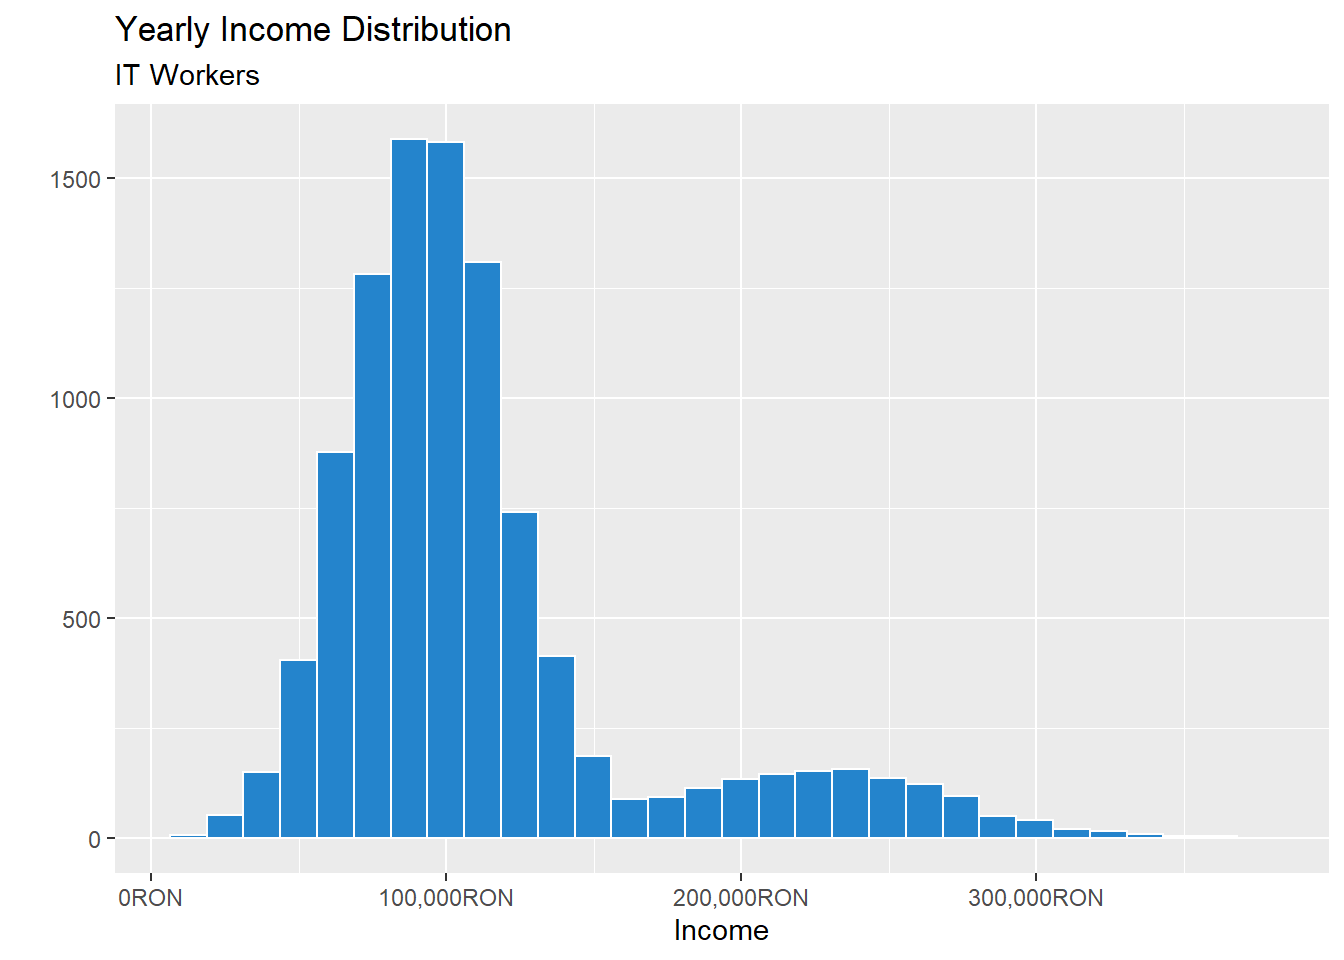
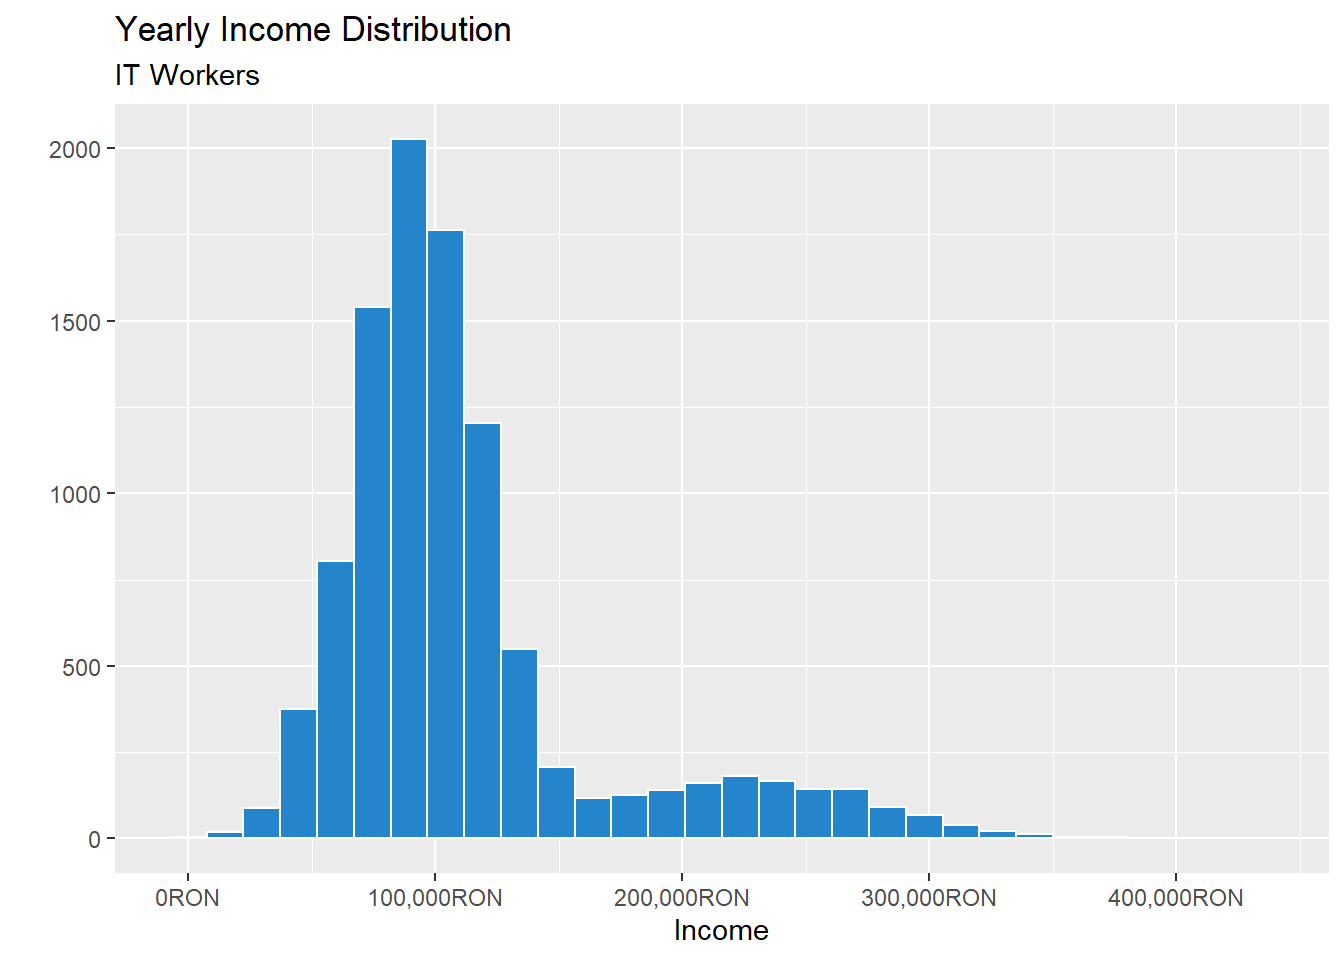
IT Crowd

diff --git a/content/post/2021-03-18-decision-making-with-uncertainty/index.en.html b/content/post/2021-03-18-decision-making-with-uncertainty/index.en.html
@@ -174,7 +174,7 @@ dr_sal_final &lt;- dr_sal_final * 468
 
 # And finally, the conversion to €
 dr_sal_final &lt;- dr_sal_final / 5  </code></pre>
-<p>I will take a look at the numbers in the analysis part, this si just the preparation of the data. Now, let’s see if we can estimate how much does an IT professional earn.</p>
+<p>I will take a look at the numbers in the analysis part, this is just the preparation of the data. Now, let’s see if we can estimate how much does an IT professional earn.</p>
 </div>
 <div id="part-of-the-it-crowd" class="section level2">
 <h2>Part of the IT Crowd</h2>
@@ -186,50 +186,47 @@ dr_sal_final &lt;- dr_sal_final / 5  </code></pre>
 <li>What is the variation from the average</li>
 <li>What is the distribution of those salaries</li>
 </ol>
-<p>If I am to look at the average income across all levels and the fact that managers and directors earn significantly more than everyone else, we can approximate that around 15% of the IT professionals are managers and directors. Otherwise said, I can rephrase this as the following statement: Assuming that I am at an average skill level for the IT industry, by seer luck I will end up in a management position 15% of the time, if I were to live 10,000 lives.</p>
-<p>###—————————————————</p>
-<p>The first table gives us most of the information we need regarding the salary distribution in Romania. There we can see that most people, over 58% earn more than 92,809 RON. This is not exactly the median of the distribution however it is close enough so we will use this to approximate the shape of the distribution. The median is the value exactly in the middle of the distribution.</p>
-<p>Once we have this, we will use it as an average value for a normal distribution that will contain most of the values in our population. This will be 85% percent of our lives, we will not be managers, therefore we will have salaries accordingly. In the rest of 15% of our 10,000 lives, we will be managers or directors so our salary will be accordingly.</p>
-<pre class="r"><code>it_sal_low &lt;- rnorm(8500, it_sal_med_low, 25000)
+<p>The first part as for the previous section is quite easy, 11,200 RON.</p>
+<p>If I am to look at the average income across all levels and the fact that managers and directors earn significantly more than everyone else, we can approximate that around 15% of the IT professionals are managers and directors. In short, I can rephrase this as the following statement: Assuming that my skill level for the IT industry is average, by seer luck I will end up in a management position 15% of the time, if I were to live 10,000 lives.</p>
+<pre class="r"><code># Distribution of IT salaries for software engineers
+it_sal_low &lt;- rnorm(8500, it_sal_med_low, 25000)
+# Distribution of IT salaries for IT managers and Directors
 it_sal_high &lt;- rnorm(1500, it_sal_med_high, 50000)
 
+# The sample of my income across all lives will be the two distributions put together
 it_sal_dist &lt;- c(it_sal_low, it_sal_high)
 
-# We want to make sure the mean of our distribution if not far off from the actual distribution
+# The average of my salary distribution should be similar to that on the website
 mean(it_sal_dist)</code></pre>
-<pre><code>#&gt; [1] 112124.1</code></pre>
-<p>We can see the average salary of our distribution is quite close to the one from the website, so we can say that our distribution closely resembles the sampled population from the site. Salary distribution looks like below:</p>
+<pre><code>#&gt; [1] 112611</code></pre>
+<p>From what I can see the distribution I have created has the same average salary as the population on the website so I can safely assume that the distribution I have created more or less resembles the population I want to recreate. The distribution looks like this:</p>
 <pre class="r"><code>it_sal_dist %&gt;% 
   histogram() +
   labs(title = &quot;Yearly Income Distribution&quot;,
        subtitle = &quot;IT Workers&quot;) + 
   scale_x_continuous(labels = label_dollar(prefix = &quot;&quot;, suffix = &quot;RON&quot;))</code></pre>
 <p><img src="{{< blogdown/postref >}}index.en_files/figure-html/it_yearly_salary-1.png" width="100%" /></p>
-<p>Not very normal, is it? There are a few people that have huge salaries compared to the rest of the population. So, if you manage to land yourself a management role in IT you’re all set. If not, let’s see how this translates in EURO and in lifetime earnings.</p>
-<p>The first thing would be to transform everything into net profit.</p>
-<p>At the time of this writing the IT workers were exempt from the income tax so the only two taxes required to be paid are:</p>
+<p>This is not a normal distribution, but that was to be expected, however it is not a power law distribution either. This can become a power law if I take into account if I consider developing an app and make it big.</p>
+<p>It is a bit complicated to get data on what is the success rate of an app. An interesting and comprehensive summary can be found in this <a href="https://venturebeat.com/2017/09/24/your-chances-of-making-a-successful-mobile-app-are-almost-nil/">article</a>. I can see that I will need €25,000 as initial investment and I need to make a full time job out of it and afterwards you need to invest in marketing and spend a lot of time adjusting ASO. For me this would have been a potential career if it would have been possible to spend some weekends creating the app, uploading it to an app store and be done with it.</p>
+<p>From what I’ve seen there is virtually no chance of that and I do not plan on spending all the effort needed for a successful app so I will not include this in the analysis.</p>
+<p>With this in mind, I will assume that the salaries are as shown in the graph above. The mentioned salaries are annual salaries in RON before tax. Now I will just need to adjust them to something more useful.</p>
+<p>First of all, I will need to extract the taxes. At the time of this writing IT professionals are exempt from the income tax, so all I would need to pay would be:</p>
 <ul>
 <li>Social Security: 25%</li>
 <li>Health Insurance: 10%</li>
 </ul>
-<p>Afterwards, we will convert it to Euro.</p>
-<pre class="r"><code>it_sal_dist_net &lt;- it_sal_dist - (it_sal_dist * 0.25) - (it_sal_dist * 0.1)
+<p>Secondly, I need to convert everything into €. As before, we will use the conversion rate from above.</p>
+<pre class="r"><code># Net salary
+it_sal_dist_net &lt;- it_sal_dist - (it_sal_dist * 0.25) - (it_sal_dist * 0.1)
 
-it_sal_dist_net_eur &lt;- it_sal_dist_net * 0.2</code></pre>
-<p>Now we have the yearly salary. So, for how long can someone work in this industry?</p>
-<p>Most people start while studying at university, however most of those positions are either very low paying or are unpaid internships so I will eliminate them. On the other hand, due to this, most people can find work right after finishing their studies. Assuming as we did previously that someone finishes high school at 19, they can study for 3-4 years, depends if you are studying in the Bologna system or not, you can start work at 22. However, since there are a lot of people working in IT who do not have specialisations in IT, I will consider that the most typical person will start at 25. This will account for those people as most people not from IT might start later.</p>
+# The salary converted to €
+it_sal_dist_net_eur &lt;- it_sal_dist_net / 5</code></pre>
+<p>Now all is left is to see for how long I would expect to work in the industry?</p>
+<p>Most people working in the IT industry start working while studying at university. I will not count these jobs because most of them are really low paying or they are unpaid internships. This situation allows people to get a proper job right after finishing university or even a bit before graduation. I will keep my assumption that I will finish high school at 19 so I have a starting point.</p>
+<p>If you are studying software engineering, in Romania, you can either study for three or four years, depending if the university follows the Bologna system or not. This does not really matter because it is not the only way to get to work in IT. There are a lot of people who attend a professional conversion and they usually do this at a latter age. So, if I were to accont for that as well, I think it would be pretty safe to assume that I would start work around 25.</p>
 <p>Considering that my goal is to retire at 65, I have 40 years of work ahead of me, so all I need to do is multiply everything by 40.</p>
-<pre class="r"><code>it_sal_dist_net_eur &lt;- it_sal_dist_net_eur * 40
-
-it_sal_dist_net_eur %&gt;% 
-  histogram() +
-  labs(title = &quot;Lifelong Income Distribution&quot;,
-       subtitle = &quot;IT Workers&quot;)</code></pre>
-<p><img src="{{< blogdown/postref >}}index.en_files/figure-html/it_sal_lifelong_income-1.png" width="100%" /></p>
-<p>This looks decent enough. Not as good as a doctors, however not bad at all. Now, I would like to take into account one more part.</p>
-<p>What if I develop an app and make it big with it?</p>
-<p>Honestly, I checked for relevant statistics regarding the success of an app. You can read a very interesting summary in this <a href="https://venturebeat.com/2017/09/24/your-chances-of-making-a-successful-mobile-app-are-almost-nil/">article</a>. From here and other sources it shows that to actually develop an app you need an initial investment of at least €25,000 and make it a full time job. Afterwards you need to invest in marketing and spend a lot of time adjusting ASO.</p>
-<p>This is kinda outside the scope of what I want to do so I will not include it in my final outcome.</p>
+<pre class="r"><code>it_sal_dist_net_eur &lt;- it_sal_dist_net_eur * 40</code></pre>
+<p>As in the first part, I will check the data once everything is prepared. First, I would like to see if my idea of making a living as a poker player is feasible.</p>
 </div>
 <div id="poker-player" class="section level2">
 <h2>Poker player</h2>
@@ -285,8 +282,8 @@ poker_players &lt;- c(avg_player, elt_player)</code></pre>
 <p>This distribution seems legit for a power law distribution. And now, for the final touch, we will need to add the 10% chance to become a professional player. We will do this by using the list we have created earlier. For this we will create a binomial distribution with a 10% probability and a size 1. Basically we can create a random string of values, either 1 or 0 and about 10% are one. Let’s see it in practice.</p>
 <pre class="r"><code>success_prob &lt;- rbinom(n = 10000, size = 1, prob = 0.1)
 print(sum(success_prob) / 10000)</code></pre>
-<pre><code>#&gt; [1] 0.0984</code></pre>
-<p>Perfect, 9.84% is exactly what we would expect.</p>
+<pre><code>#&gt; [1] 0.1015</code></pre>
+<p>Perfect, 10.15% is exactly what we would expect.</p>
 <p>Now all we need to do is multiply the two lists. When a value in the second list is 0 it will transform the earnings to 0, so we did not make it as a professional poker player. When it is 1 the result will not be affected.</p>
 <pre class="r"><code>poker_players_final &lt;- poker_players * success_prob</code></pre>
 <p>Now that we painfully and to the best of our knowledge created the populations, let’s proceed in analysing the data.</p>
